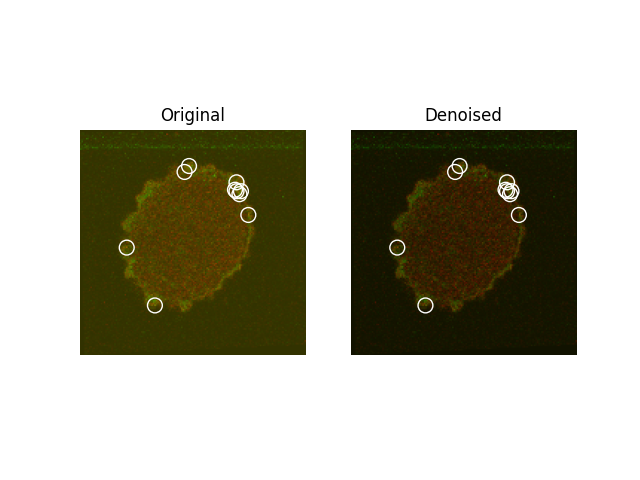
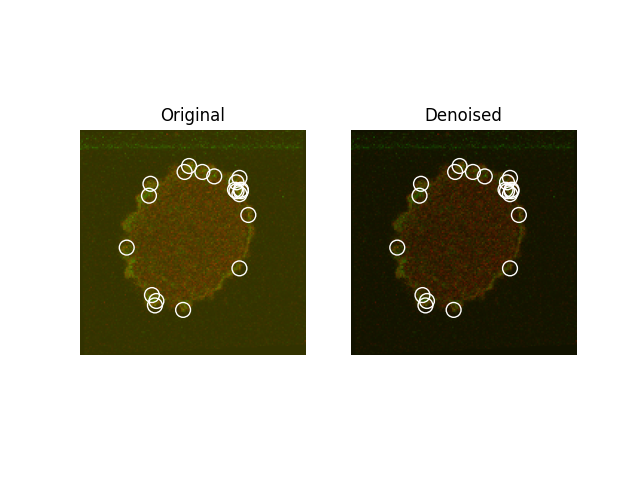
ICA figures sorted, kmeans debugging initiated #35

diff --git a/coloc/backend/Visualiser.py b/coloc/backend/Visualiser.py
@@ -76,8 +76,8 @@ def compare_dists(ch1_clusters, ch2_clusters, max_dist):
     euc_dists = {}
     if len(ch1_clusters) != len (ch2_clusters):
         raise ValueError("Unequal cluster vectors")
-    print("Ch1 cluster: ",ch1_clusters)
-    print("Ch2 cluster: ",ch2_clusters)
+    # print("Ch1 cluster: ",ch1_clusters)
+    # print("Ch2 cluster: ",ch2_clusters)
     for n, c1_clust in enumerate(ch1_clusters):      
         for n2,c2_clust in enumerate(ch2_clusters):
             centroid_dist = dist(c1_clust, c2_clust)  # Compute euclidean distance
@@ -86,12 +86,12 @@ def compare_dists(ch1_clusters, ch2_clusters, max_dist):
                 # Record distance between cluster centroids. 
                 euc_dists["Pair %s"%(n)]["Chan1"]=c1_clust.astype(int)
                 euc_dists["Pair %s"%(n)]["Chan2"]=c2_clust.astype(int)
-                print("Ch 1 n",str(n))
-                print("Ch2 n", str(n2))
-                print("Ch1 :",c1_clust)
-                print("Ch2 :",c2_clust)
-                print("Means: ",np.mean([c1_clust,c2_clust],axis=0))
-                euc_dists["Pair %s"%(n)]["Avg"]=reversed(np.mean([c1_clust,c2_clust],axis=0).astype(int))
+                # print("Ch 1 n",str(n))
+                # print("Ch2 n", str(n2))
+                # print("Ch1 :",c1_clust)
+                # print("Ch2 :",c2_clust)
+                print("Means: ",list(reversed(np.mean([c1_clust,c2_clust],axis=0))))
+                euc_dists["Pair %s"%(n)]["Avg"]=list(reversed(np.mean([c1_clust,c2_clust],axis=0).astype(int)))
     return euc_dists
 
 
@@ -162,15 +162,16 @@ def plot(original,denoised, clusters, output_dir, filename):
     for a, axis in enumerate(ax):
         annotate(axis, titles[a], clusters)
     plt.savefig(output_dir+filename)
-    # plt.show()        # Retained for debugging
+    plt.show()        # Retained for debugging
+
 
 def plot_kmeans(original, denoised, clusters, output_dir, filename):
     """Plots circles corresponding to overlapping kmeans centroids in the data
     
     """
     _, ax = plt.subplots(1, 2)
-    ax[0].imshow(denoised)
-    ax[1].imshow(original)
+    ax[0].imshow(original)
+    ax[1].imshow(denoised)
     titles=['Original','Denoised']
     for a,axis in enumerate(ax):
         for pair in clusters.keys():
@@ -204,11 +205,11 @@ def run_visualiser(input_dict):
 
     original, preprocessed = preprocessingclass.do_preprocess(sourcefile, input_dict['threshold'])
     original = original.frames.astype(int)
-    preprocessed = preprocessed.frames
+    preprocessed = (preprocessed.frames*255).astype(int)
 
     if (input_dict["Run Intensity Correlation Analysis"] == 'Y') and (input_dict["Run KMeans"] == 'Y'):
-        for n in range(original.shape[-1]):
-        # for n in [8,9]:   # For debugging only
+        # for n in range(original.shape[-1]):
+        for n in [8,9]:   # For debugging only
             orig = original[:, :, :, n]
             denoised = preprocessed[:, :, :, n]
 
@@ -220,10 +221,10 @@ def run_visualiser(input_dict):
             plot_kmeans(orig, denoised, kmeans_clusts, output_dir,"/img%s_original_kmeans" % n)
         
     elif (input_dict["Run Intensity Correlation Analysis"] == 'Y') and (input_dict["Run KMeans"] == 'N'):
-        for n in range(original.shape[-1]):
+        # for n in range(original.shape[-1]):
+        for n in [8,9]:   # For debugging only
             orig = original[:, :, :, n]
-            denoised = preprocessed[:, :, :, n]
-
+            denoised = preprocessed[:, :, :, n].astype(int)
             corr_clusts = correlate(denoised, input_dict['channels'], input_dict['num_clusts'])
             plot(orig,denoised,corr_clusts,output_dir,"/img%s_original_corr" % n)
 
@@ -244,10 +245,10 @@ if __name__=="__main__":
     'out_path': './data/output',
     'threshold': 0.5,
     'channels': [0,1],
-    'num_clusts': 10,
-    'min_dist': 1000,
+    'num_clusts': 20,
+    'min_dist': 5,
     'Run Intensity Correlation Analysis': 'Y',
-    'Run KMeans': 'N'}
+    'Run KMeans': 'Y'}
     
     run_visualiser(inputdict)
     
